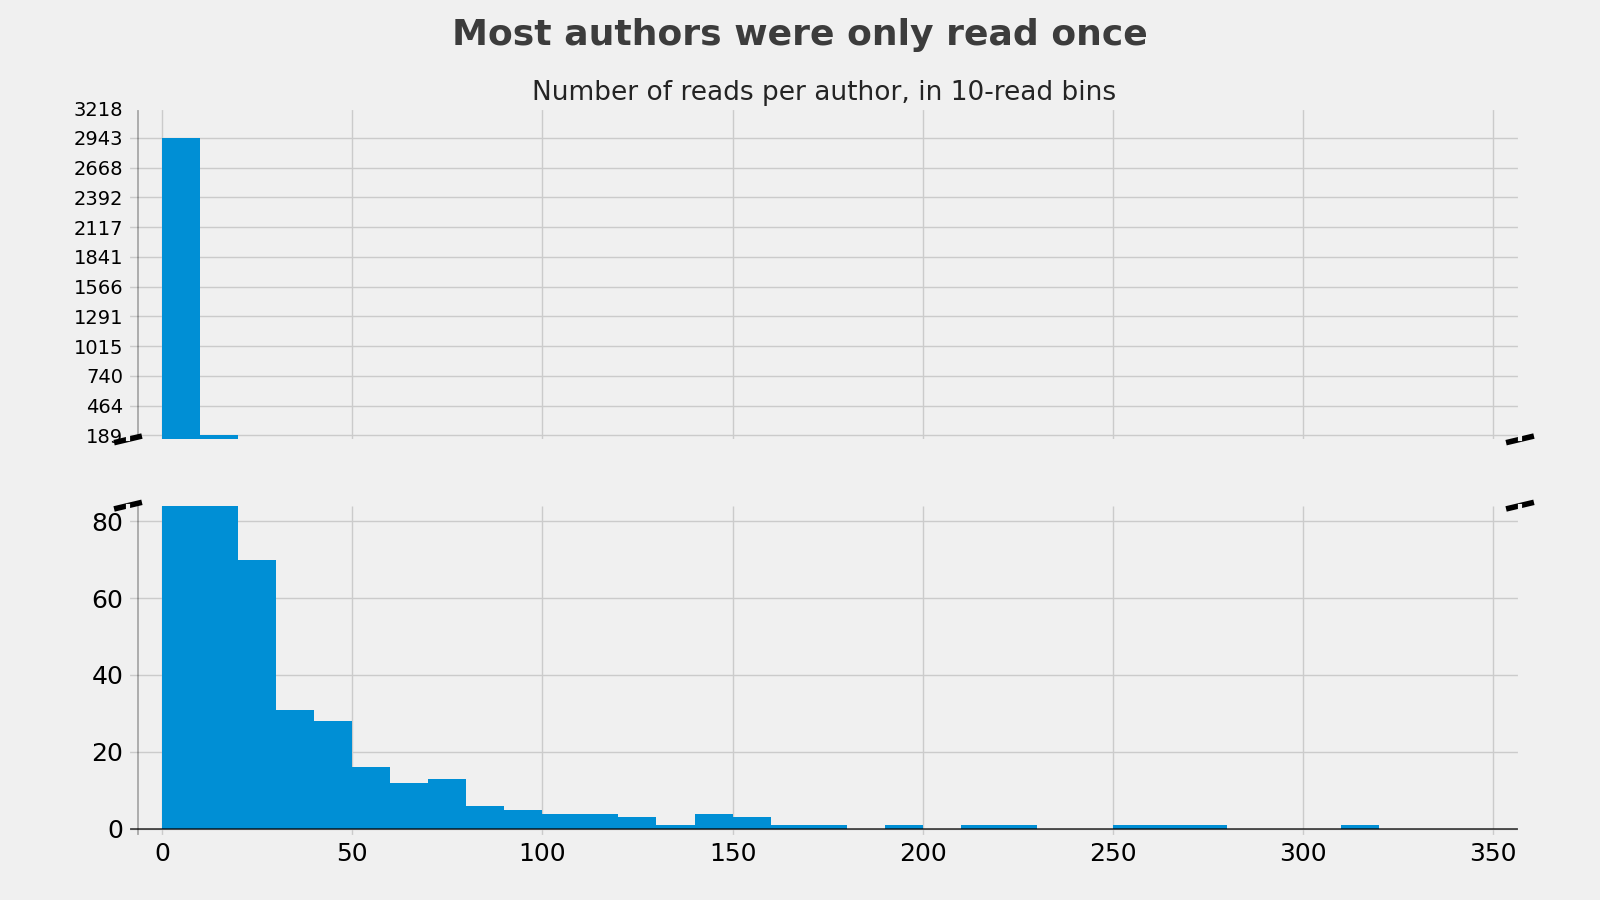
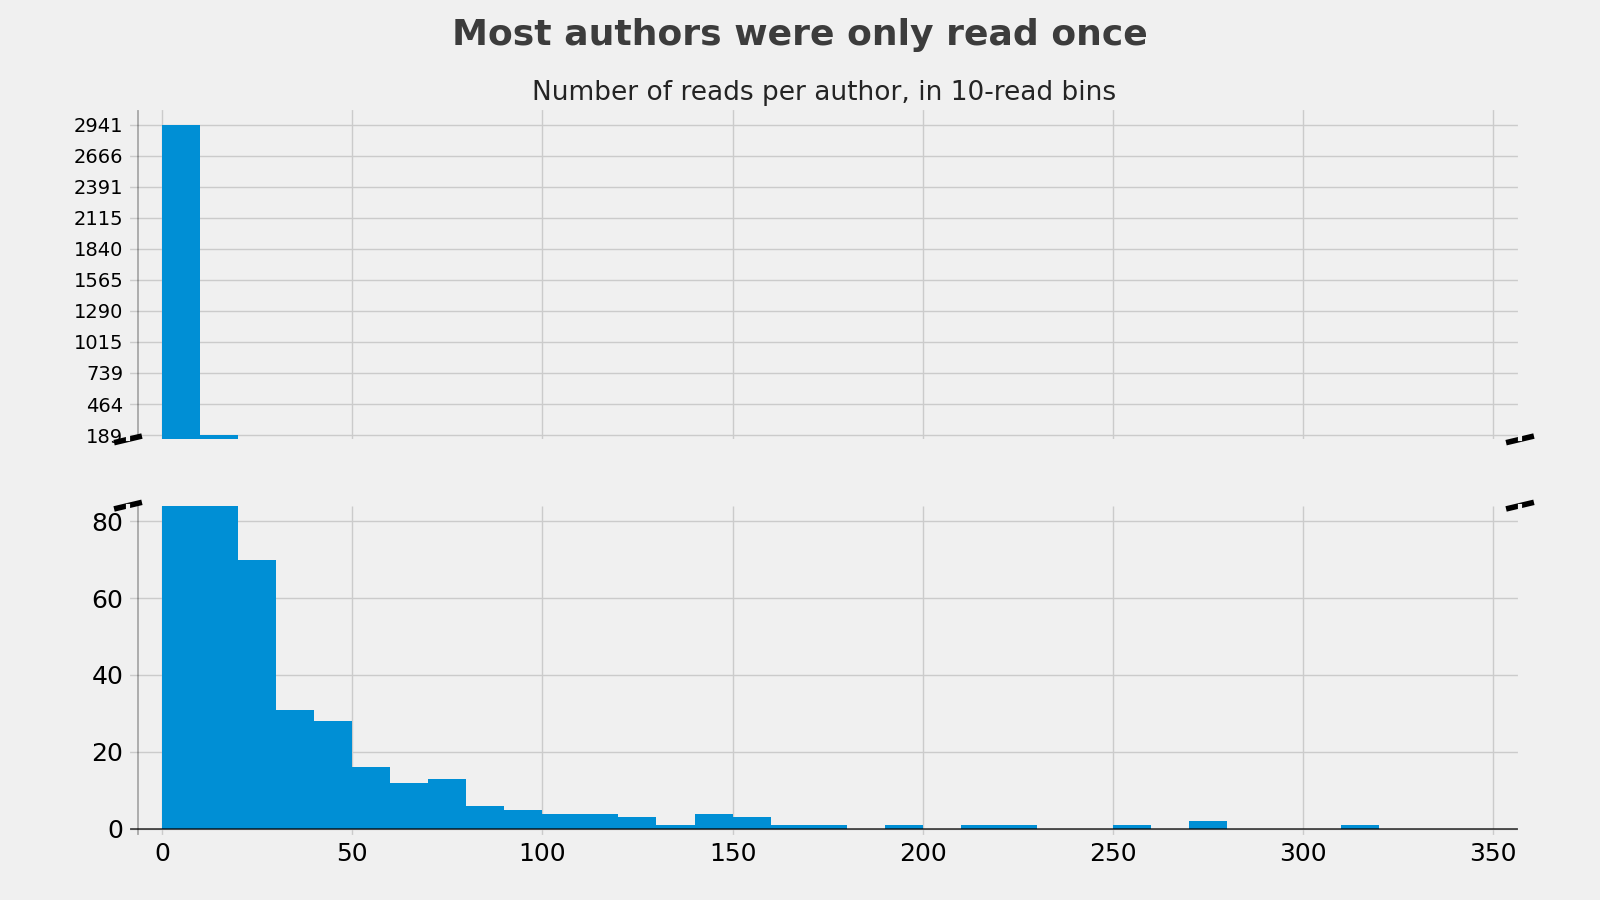
Fix some "and"s, light edits following post

Changed region(s): [[0.0312, 0.1244, 0.125, 0.4667], [0.7188, 0.9022, 0.75, 0.9333]]

diff --git a/process_data/calculate_statistics/get_stats.py b/process_data/calculate_statistics/get_stats.py
@@ -430,11 +430,23 @@ def create_markdown(bingo_stats: BingoStatistics) -> None:
                 max_ratio = count_ratio
                 max_square_ratio_book = book
 
+    max_ratio = 0.0
+    for author, square_count in bingo_stats.unique_squares_by_author.items():
+        total_count = bingo_stats.overall_uniques.unique_authors[author]
+        if total_count >= 10:
+            count_ratio = square_count / total_count
+            if count_ratio > max_ratio:
+                max_ratio = count_ratio
+                max_square_ratio_author = author
+
     mean_uniques = np.mean(list(bingo_stats.card_uniques.values()))
 
     hard_mode_by_card_counts = Counter(bingo_stats.hard_mode_by_card.values())
 
     avg_hm = np.mean(list(bingo_stats.hard_mode_by_card.values()))
+
+    avg_reads_per_book = np.mean(list(bingo_stats.overall_uniques.unique_books.values()))
+    avg_reads_per_author = np.mean(list(bingo_stats.overall_uniques.unique_authors.values()))
 
     markdown_lines = f"""# Preliminary Notes
 
@@ -496,7 +508,11 @@ The books used for the most squares were:
 {format_most_square_books(bingo_stats.unique_squares_by_book)}
 
 {format_book(max_square_ratio_book)} was the book read at least 10 times with the highest ratio of squares to times read:
-read {bingo_stats.overall_uniques.unique_books[max_square_ratio_book]} times for {bingo_stats.unique_squares_by_book[max_square_ratio_book]} squares. 
+read {bingo_stats.overall_uniques.unique_books[max_square_ratio_book]} times for {bingo_stats.unique_squares_by_book[max_square_ratio_book]} squares.
+
+<INSERT PLOT HERE>
+
+There were an average of {avg_reads_per_book} reads per book.
 
 ### Authors
 
@@ -508,9 +524,16 @@ The authors used for the most squares were:
 
 {format_most_square_authors(bingo_stats.unique_squares_by_author)}
 
+{max_square_ratio_author} was the author read at least 10 times with the highest ratio of squares to times read:
+read {bingo_stats.overall_uniques.unique_authors[max_square_ratio_author]} times for {bingo_stats.unique_squares_by_author[max_square_ratio_author]} squares.
+
 The authors with the most unique books read were:
 
 {format_unique_author_books(bingo_stats.books_per_author)}
+
+<INSERT_PLOT_HERE>
+
+There were an average of {avg_reads_per_author} reads per author.
 
 ## Stats for Individual Squares
 
@@ -522,7 +545,7 @@ The authors with the most unique books read were:
 ## Variety
 
 Values close to 0 suggest a square was well-varied; 0 means no book was repeated for a square.
-Values close to 1 suggest the same books were used repeatedly for a square; 1 means only one book was used for a square.
+Values close to 100 suggest the same books were used repeatedly for a square; 100 means only one book was used for a square.
 
 {format_farragini(bingo_stats)}
 
@@ -536,6 +559,3 @@ Values close to 1 suggest the same books were used repeatedly for a square; 1 me
 
     with OUTPUT_MD_FILEPATH.open("w", encoding="utf8") as md_file:
         md_file.write(markdown_lines)
-
-    print(np.mean(list(bingo_stats.overall_uniques.unique_books.values())))
-    print(np.mean(list(bingo_stats.overall_uniques.unique_authors.values())))

diff --git a/find_author_place.py b/find_author_place.py
@@ -1,0 +1,89 @@
+"""
+Created on Apr 25, 2023
+
+@author: fred
+"""
+import argparse
+import json
+from collections import Counter
+from typing import Iterable, TypeVar
+
+import numpy as np
+
+from process_data.data.bingo_2022.filepaths import OUTPUT_STATS_FILEPATH
+from process_data.types.bingo_statistics import BingoStatistics
+from process_data.types.defined_types import Author
+
+T = TypeVar("T")
+
+
+def calc_percentiles(
+    cnts_dict: Counter[T],
+    percentiles_to_calc: Iterable[float] = range(101),
+) -> list[tuple[float, T]]:
+    """Returns [(percentile, value)] with nearest rank percentiles.
+    Percentile 0: <min_value>, 100: <max_value>.
+    cnts_dict: { <value>: <count> }
+    percentiles_to_calc: iterable for percentiles to calculate; 0 <= ~ <= 100
+    """
+    assert all(0 <= percentile <= 100 for percentile in percentiles_to_calc)
+    percentiles = []
+    num = sum(cnts_dict.values())
+    cnts = sorted(cnts_dict.items(), key=lambda x: -x[1])
+    curr_cnts_pos = 0  # current position in cnts
+    curr_pos = cnts[0][1]  # sum of freqs up to current_cnts_pos
+    for percentile in sorted(percentiles_to_calc):
+        if percentile < 100:
+            percentile_pos = percentile / 100.0 * num
+            while curr_pos <= percentile_pos and curr_cnts_pos < len(cnts):
+                curr_cnts_pos += 1
+                curr_pos += cnts[curr_cnts_pos][1]
+            percentiles.append((percentile, cnts[curr_cnts_pos][0]))
+        else:
+            percentiles.append((percentile, cnts[-1][0]))  # we could add a small value
+    return percentiles
+
+
+def main(args: argparse.Namespace) -> None:
+    with OUTPUT_STATS_FILEPATH.open("r", encoding="utf8") as stats_file:
+        bingo_stats = BingoStatistics.from_data(json.load(stats_file))
+
+    percentiles = {
+        author: percentile
+        for percentile, author in calc_percentiles(
+            bingo_stats.overall_uniques.unique_authors,
+            np.arange(0, 100, 100 / (len(bingo_stats.overall_uniques.unique_authors) * 10)),
+        )
+    }
+
+    place = 0
+    last_count = -1
+    for total_place, (author, count) in enumerate(
+        bingo_stats.overall_uniques.unique_authors.most_common()
+    ):
+        if count != last_count:
+            place += 1
+            last_count = count
+
+        if author == args.author:
+            print(
+                f" \t -----> {author}: Place {place} | Read count {count} |"
+                + f" Percentile by count {percentiles[author]:.1f} | Percentile by total place {100*total_place/len(bingo_stats.overall_uniques.unique_authors):.1f} <-----"
+            )
+        else:
+            print(
+                f"{author}: Place {place} | Read count {count} |"
+                + f" Percentile {percentiles[author]:.1f} | Percentile by total place {100*total_place/len(bingo_stats.overall_uniques.unique_authors):.1f}"
+            )
+
+
+def cli() -> argparse.Namespace:
+    parser = argparse.ArgumentParser()
+
+    parser.add_argument("author", type=Author)
+
+    return parser.parse_args()
+
+
+if __name__ == "__main__":
+    main(cli())

diff --git a/process_data/types/unique_statistics.py b/process_data/types/unique_statistics.py
@@ -40,7 +40,7 @@ class UniqueStatistics:
             unique_books=Counter(
                 {
                     Book(str(key)): int(cast(int, val))
-                    for key, val in data["unique_title_authors"].items()
+                    for key, val in data["unique_books"].items()
                 }
             ),
             unique_authors=Counter(

diff --git a/process_data/data/bingo_2022/bingo_stats_rough_draft.md b/process_data/data/bingo_2022/bingo_stats_rough_draft.md
@@ -21,7 +21,7 @@ In addition, if you did something like, say, put **Spinning Silver** as a short 
 3. Books by multiple authors were counted once for each author. E.g.: **In the Heart of Darkness** by Eric Flint and David Drake counts as a read for both Eric Flint and David Drake.
 *However*, books by a writing team with a single-author pseudonym, e.g. M.A. Carrick, were counted once for the pseudonym, and not for the authors behind the pseudonym.
 4. Author demographic statistics are not included below, for two reasons: it quickly gets messy and culturally-specific,
-and I didn't want to stalk all 3342 individual authors. Machinery for these calculations are included in the script, however,
+and I didn't want to stalk all 3340 individual authors. Machinery for these calculations are included in the script, however,
 so if anyone would like to supply demographic information, it is easy to include. (I may scrape author genders from past data, as well.)
 5. Short stories were excluded from most of the stats below. They *were* included in the total story count.
 
@@ -35,7 +35,7 @@ so if anyone would like to supply demographic information, it is easy to include
 The minimum number of filled squares was 2. 6 were *this close*, with 24 filled squares.
 866 squares were left blank, leaving 19684 filled squares.
 - There were 20140 total stories, with 5610 unique stories read,
-by 3342 unique authors.
+by 3340 unique authors.
 - The top three squares left blank were: **Set in Africa**, blank on 66 cards; **Five Short Stories**, blank on 53 cards; **Self-Published**, blank on 51 cards. On the other hand, **Stand-alone** was only left blank 19 times.
 - The three squares most often substituted were: **Self-Published**, substituted on 29 cards; **Set in Africa**, substituted on 26 cards; **Book Club or Readalong Book** and **Two or More Authors**, substituted on 21 cards each. **Non-Human Protagonist** and **No Ifs, Ands, or Buts** were never subsituted.
 This means that Set in Africa was the least favorite overall, skipped or substituted a total of 92 times.
@@ -95,7 +95,11 @@ The books used for the most squares were:
 - TIE: **Piranesi** by Susanna Clarke and **Legends & Lattes** by Travis Baldree and **A Psalm for the Wild-Built** by Becky Chambers and **Circe** by Madeline Miller and **The Lost Metal** by Brandon Sanderson and **When Women Were Dragons** by Kelly Barnhill and **Nona the Ninth** by Tamsyn Muir and **The Very Secret Society of Irregular Witches** by Sangu Mandanna, each used for 10 squares
 
 **The Sandman** by Neil Gaiman was the book read at least 10 times with the highest ratio of squares to times read:
-read 10 times for 8 squares. 
+read 10 times for 8 squares.
+
+<INSERT PLOT HERE>
+
+There were an average of 3.4884135472370765 reads per book.
 
 ### Authors
 
@@ -104,7 +108,7 @@ The ten most-read authors were:
 - T. Kingfisher, read 350 times
 - Becky Chambers, read 317 times
 - Travis Baldree, read 278 times
-- Brandon Sanderson, read 267 times
+- Brandon Sanderson, read 271 times
 - Martha Wells, read 255 times
 - P. Djèlí Clark, read 224 times
 - Naomi Novik, read 213 times
@@ -118,10 +122,13 @@ The authors used for the most squares were:
 - Brandon Sanderson, used for 20 squares
 - Adrian Tchaikovsky, used for 17 squares
 
+Lavie Tidhar was the author read at least 10 times with the highest ratio of squares to times read:
+read 10 times for 8 squares.
+
 The authors with the most unique books read were:
 
 - Terry Pratchett, with 38 unique books read
-- Brandon Sanderson, with 32 unique books read
+- Brandon Sanderson, with 33 unique books read
 - Lois McMaster Bujold, with 27 unique books read
 - Adrian Tchaikovsky, with 26 unique books read
 - Jim Butcher, with 23 unique books read
@@ -130,6 +137,10 @@ The authors with the most unique books read were:
 - TIE: T. Kingfisher and Ilona Andrews and K.J. Parker, each with 19 unique books read
 - C.J. Cherryh, with 18 unique books read
 - Martha Wells, with 17 unique books read
+
+<INSERT_PLOT_HERE>
+
+There were an average of 6.2610778443113775 reads per author.
 
 ## Stats for Individual Squares
 
@@ -269,7 +280,7 @@ Skipped 19 times. Substituted 4 times.
 - John Scalzi, read 14 times
 - TIE: Travis Baldree and Emily St. John Mandel and Silvia Moreno-Garcia and Neil Gaiman and Blake Crouch and Sangu Mandanna, each read 12 times
 
-**TOTAL**: 393 unique authors read.
+**TOTAL**: 392 unique authors read.
 
 ### 7. Anti-Hero
 
@@ -739,7 +750,7 @@ Values close to 1 suggest the same books were used repeatedly for a square; 1 me
 |Two or More Authors|51.4|60.6|
 |Historical SFF|45.8|55.0|
 |Set In Space|52.0|61.1|
-|Stand-alone|35.5|43.8|
+|Stand-alone|35.5|43.9|
 |Anti-Hero|49.7|58.0|
 |Book Club or Readalong Book|49.6|49.9|
 |Cool Weapon|46.4|58.4|
